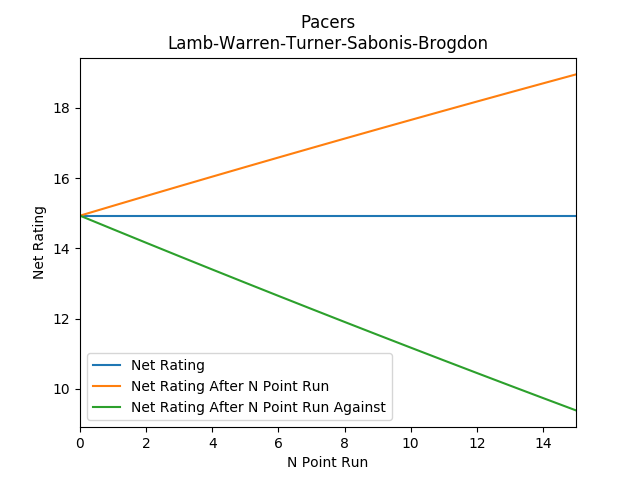
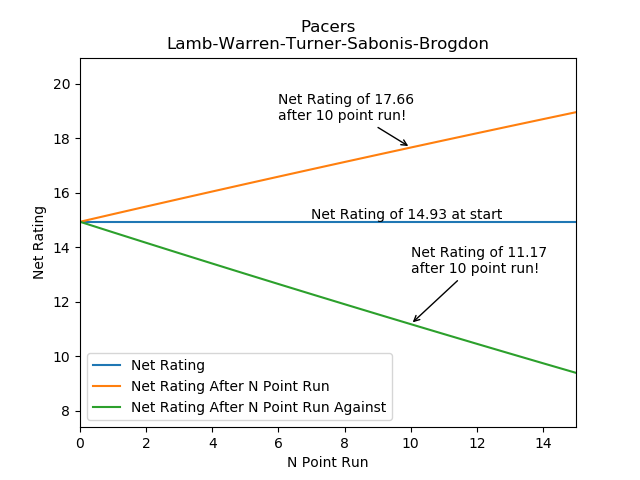
working on README

diff --git a/five_man_net_rating/net_rtg_run.py b/five_man_net_rating/net_rtg_run.py
@@ -104,12 +104,30 @@ for season in ['2019-20']: #'2018-19',
         plt.plot(frame['RUN'], frame['NET - RUN SCORED'], label='Net Rating After N Point Run')
         plt.plot(frame['RUN'], frame['NET - RUN ALLOWED'], label='Net Rating After N Point Run Against')
 
+        y_up=frame['NET - RUN SCORED'].round(2)[10]
+        y_down=frame['NET - RUN ALLOWED'].round(2)[10]
+
+        y_max = frame['NET - RUN SCORED'].round(2)[15] + 2
+        y_min = frame['NET - RUN ALLOWED'].round(2)[15]  - 2
+
+        net_rtg = frame['NET'].round(2)[0]
+
+
+        y_txt_down = (y_down + net_rtg)/2
+
+
+        plt.annotate(xy=(10, y_up), xytext=(6, y_up + 1), arrowprops=dict(arrowstyle="->",connectionstyle="arc3"), s='Net Rating of {}\nafter 10 point run!'.format(y_up))
+        plt.annotate(xy=(7, net_rtg), xytext=(7, net_rtg+0.1), s='Net Rating of {} at start'.format(net_rtg))
+        plt.annotate(xy=(10, y_down), xytext=(10, y_txt_down ), arrowprops=dict(arrowstyle="->",connectionstyle="arc3"), s='Net Rating of {}\nafter 10 point run!'.format(y_down))
+
+
         plt.title('{}\n{}'.format(team_lineup['TEAM'], team_lineup['LINEUP']))
         plt.xlabel('N Point Run')
         plt.ylabel('Net Rating')
         plt.xlim(0, 15)
+        plt.ylim(y_min, y_max)
 
-        plt.legend()
+        plt.legend(loc='lower left')
 
         plt.savefig('plots/{}.png'.format(team_lineup['TEAM'].replace(' ','_')))
         plt.close(fig)

diff --git a/five_man_net_rating/README.md b/five_man_net_rating/README.md
@@ -86,6 +86,13 @@ A single trip up and down the court has that big of an impact.
 
 ## Your Favorite Teams Most Played Lineup is a 15 point run away from Glory/Disaster
 
+The last thing I want to leave you with is a chart of how a quick run
+could impact the net rating of your favorite teams most played lineup.
+In the below charts I have plotted the current Net Rating of the the
+lineup and what the net rating would be after each point in a run up to 15 points.
+This way you can see what each lineup's net rating would be after going on a 15 point run
+or giving up a 15 point run.
+
 ### 76ers
 ![76ers](plots/76ers.png)
 
